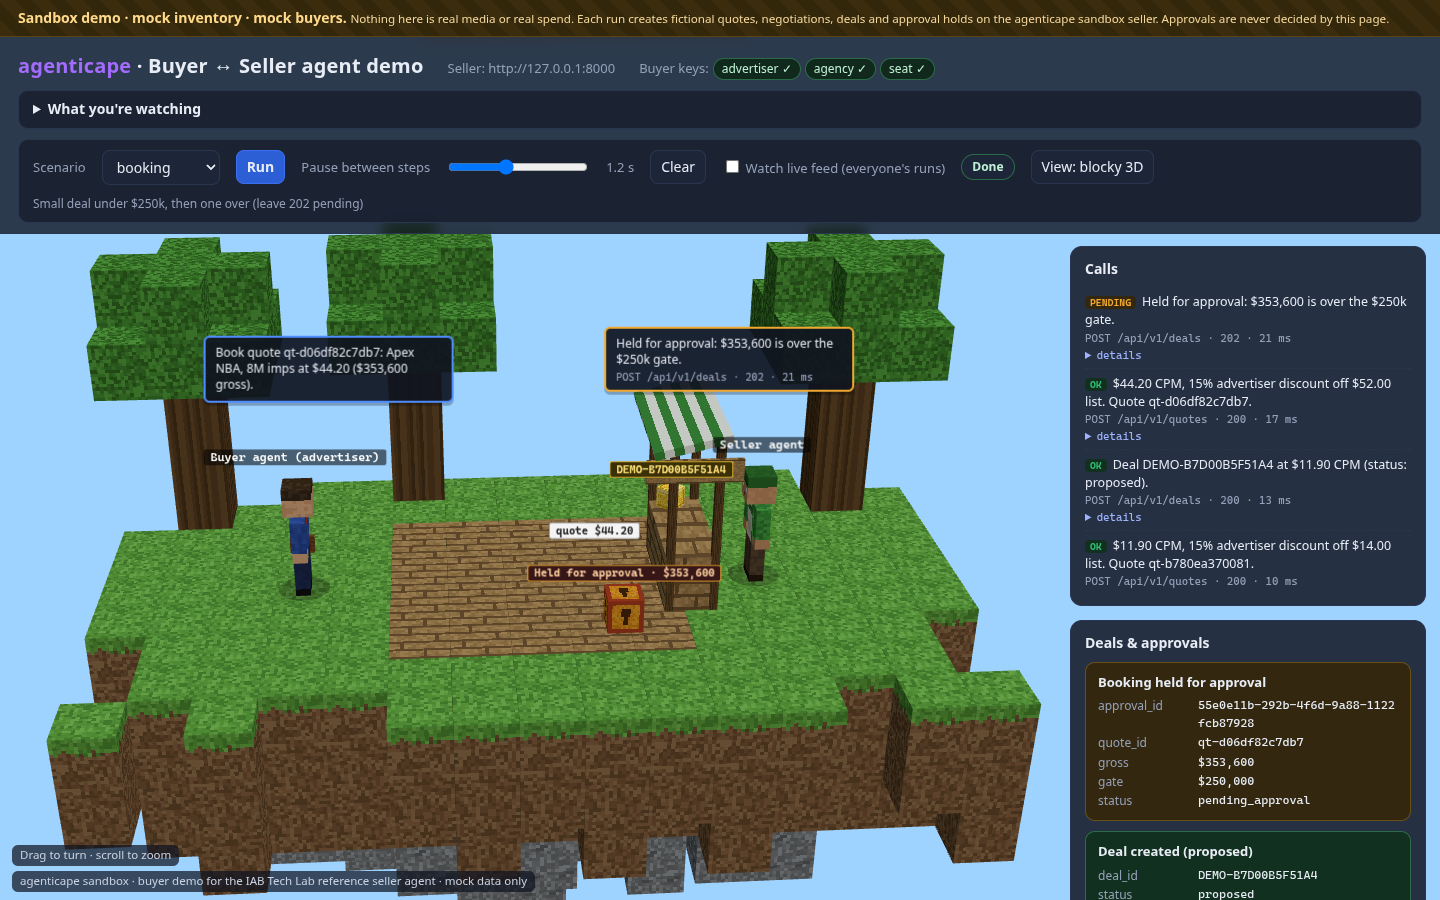
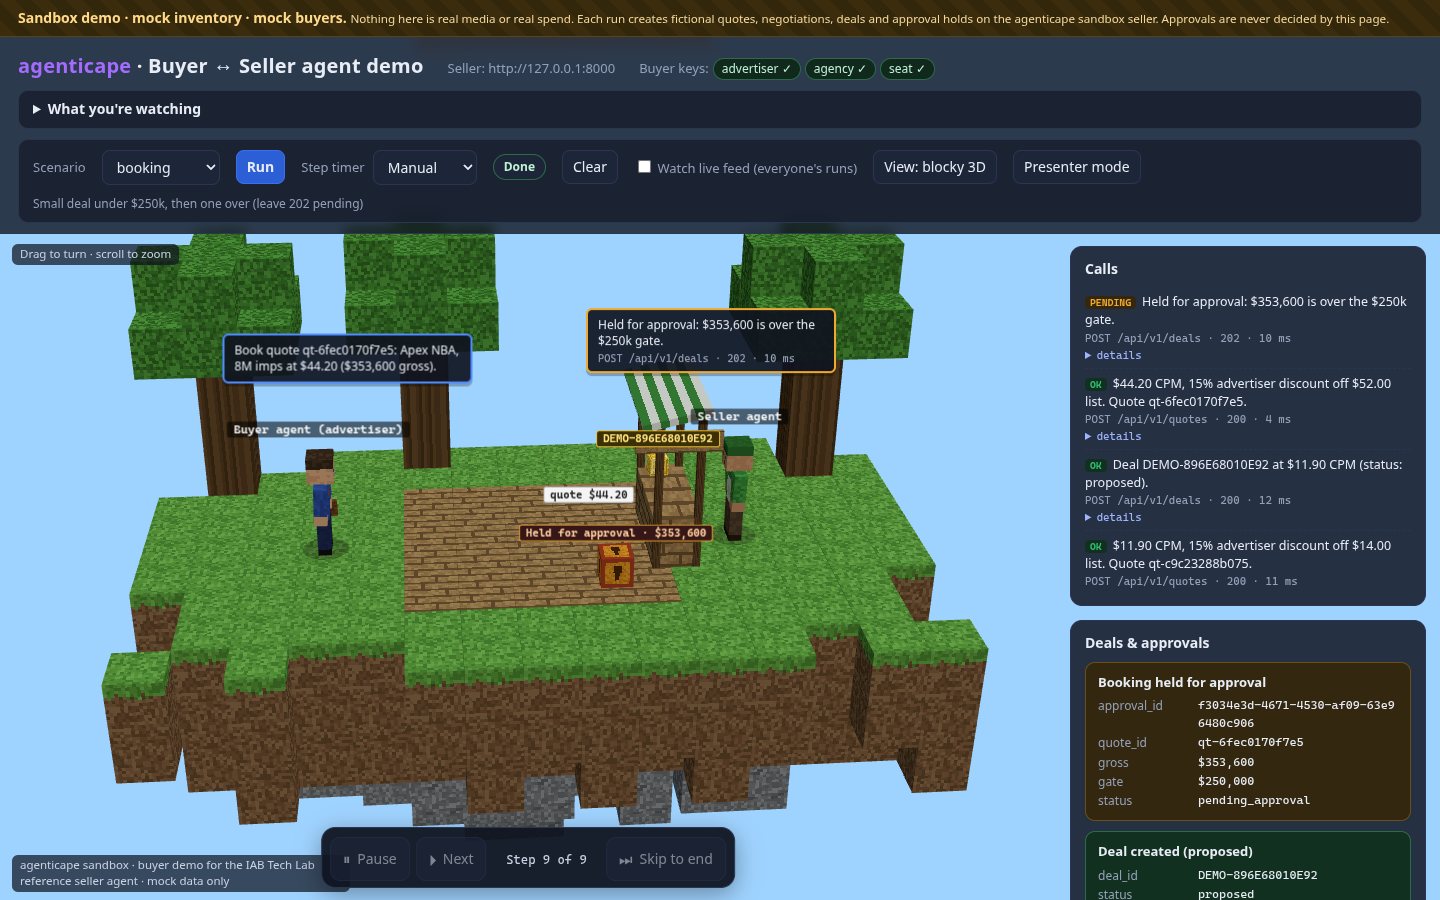
examples/buyer-demo: document step playback, phones and presenter mode
README and RUN.md cover the step timer, click/tap/keyboard advance, the
playback bar, the phone layout (bottom sheet, pinch zoom) and presenter
mode, plus how to run the headless browser check. DEPLOY.md notes that
runs now go at full speed. The desktop screenshots are refreshed, and
phone screenshots (390x844 and 844x390) are added. All are taken against
a local mock-only sandbox seller.

diff --git a/examples/buyer-demo/README.md b/examples/buyer-demo/README.md
@@ -55,7 +55,24 @@ $353,600 is over the $250k gate"), coloured green (agreed), amber (counter or
 held for approval) or red (refused). Under each reply are the method, path,
 status and latency, plus a click-to-expand of the raw request and response.
 A side panel shows deal and approval cards and the running notes. Pick a
-scenario, set the pause between steps (0 to 3 s), and press **Run**. The page
+scenario and press **Run**.
+
+The seller answers in milliseconds, so the page plays the run back one step
+at a time: the buyer speaks, then the seller replies (with any gold block,
+padlock or red X). Set the **Step timer** to 2, 4 (default), 6, 8 or 10
+seconds, or to a custom number, or pick **Manual**. Then click or tap anywhere
+on the scene (or press Space or →) to go to the next step. The playback bar at
+the bottom has Pause/Play (**P**), Next, a "Step 3 of 9" counter with a
+countdown line, and **Skip to end**. Clicks on controls, panels and JSON
+expanders never advance, and neither does dragging the camera.
+
+It works on phones in portrait and landscape. The controls fold into a
+compact bar, the calls, cards and notes open as a bottom sheet (☰), and you
+pinch to zoom. **Presenter mode** hides everything except the scene and the
+playback bar, and goes fullscreen where the browser allows it. iPhone Safari
+has no fullscreen for pages, so there it only hides the chrome.
+
+The page
 is plain HTML with no CDN and no build step, so it works offline: three.js r170
 is vendored as one file in `static/` (MIT, licence header kept), and all the
 block and character textures are drawn procedurally in the browser. Keys never
@@ -65,6 +82,8 @@ The `runs/` logs are written exactly as for the CLI.
 ![Buyer demo UI, blocky 3D view: booking scenario against a local sandbox seller](docs/ui-3d.png)
 
 ![Buyer demo UI, flat view: the same booking scenario](docs/ui-booking.png)
+
+<img alt="Phone, portrait" src="docs/ui-mobile-portrait.png" width="260"> <img alt="Phone, landscape" src="docs/ui-mobile-landscape.png" width="520">
 
 The same page is hosted for anyone at <https://iab-buyer.agenticape.ai>
 (`--serve` mode, with a per-visitor rate limit and a run queue). See

diff --git a/examples/buyer-demo/RUN.md b/examples/buyer-demo/RUN.md
@@ -215,9 +215,23 @@ $env:KEYS_FILE = "C:\path\to\keys.fly.json"     # or set $env:SELLER_API_KEY etc
 uv run python buyer_demo.py --ui
 ```
 
-Your browser opens <http://127.0.0.1:8765/>. Pick a scenario (or `all`), set
-the pause between steps (0 to 3 seconds; about 1.2 s is easy to follow),
-press **Run**, and **Clear** to start over. Stop the server with Ctrl+C in
+Your browser opens <http://127.0.0.1:8765/>. Pick a scenario (or `all`) and
+press **Run**. The page replays the run one step at a time:
+
+- **Step timer**: seconds per step (2, 4, 6, 8, 10 or a custom number;
+  default 4), or **Manual**. The browser remembers your choice.
+- **Next step**: click or tap anywhere on the scene or page background, or
+  press Space or →. Controls, the side panel, JSON expanders and camera drags
+  don't count.
+- **Playback bar** (bottom): Pause/Play (or **P**), Next, the step counter
+  with a countdown line, and **Skip to end**.
+- **Clear** wipes the screen.
+- **Presenter mode** (in the controls; under ⋯ on a phone) shows only the
+  scene and the playback bar, and goes fullscreen where supported. Leave it
+  with ✕ or Esc.
+
+On a phone the side panel is a bottom sheet behind the ☰ button. One finger
+turns the camera, two fingers zoom, and a tap moves to the next step. Stop the server with Ctrl+C in
 the PowerShell window. Options: `--port 9000` for another port,
 `--no-browser` to only print the URL.
 
@@ -239,6 +253,17 @@ uv run pytest
 
 They use an in-process fake seller (no network) and cover the event stream,
 key redaction, the CLI lines, and the web server's guardrails.
+
+A headless browser check covers step playback (the 2 s timer, Manual mode,
+which clicks advance and which don't, keys) and the phone layouts (390x844
+and 844x390 with touch). It uses the same fake seller and needs Node 18+:
+
+```powershell
+cd tests\browser
+npm install
+npx playwright install chromium
+node check_playback.js
+```
 
 ## Logs
 

diff --git a/examples/buyer-demo/deploy/fly/DEPLOY.md b/examples/buyer-demo/deploy/fly/DEPLOY.md
@@ -126,8 +126,10 @@ Plain env (in `fly.toml` `[env]`; change there and redeploy):
 ## What the hosted page guards
 
 - The browser picks only one of the fixed scenarios (`discovery`, `pricing`,
-  `negotiation`, `booking`, `anon-write`, `extras`, `all`) and a pause of 0 to 3
-  seconds. Nothing it sends reaches the seller.
+  `negotiation`, `booking`, `anon-write`, `extras`, `all`). Runs go at full
+  speed, and the page paces the playback itself. An optional server-side
+  pause is still accepted but clamped to 0 to 3 seconds. Nothing the browser
+  sends reaches the seller.
 - `POST`s must be same-origin JSON with the page's `X-Demo-Client` header. No
   CORS headers are ever sent, so other sites cannot start runs.
 - Each run streams to the viewer who started it, at an unguessable
